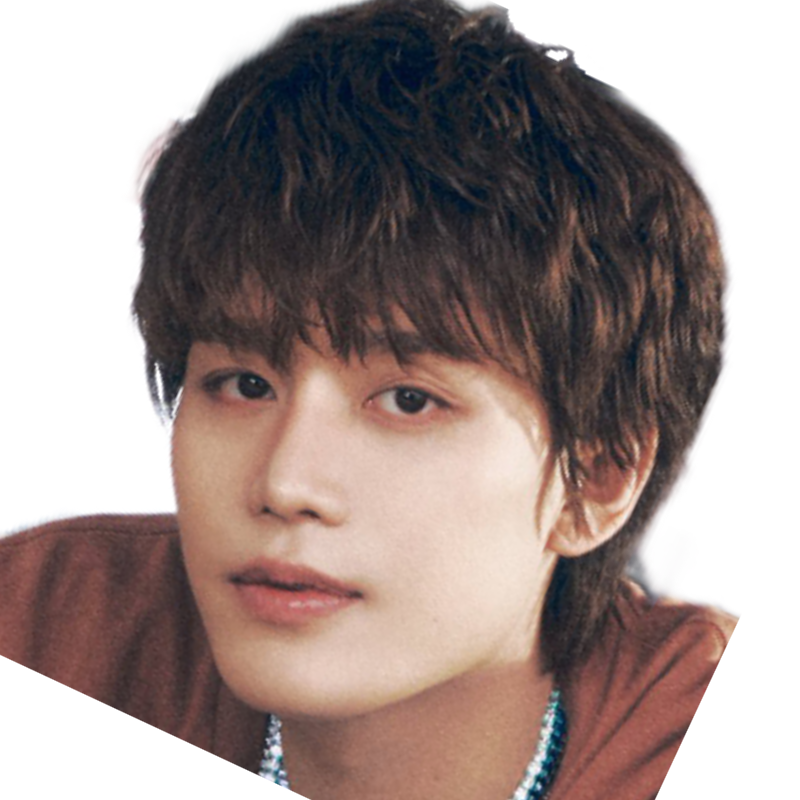
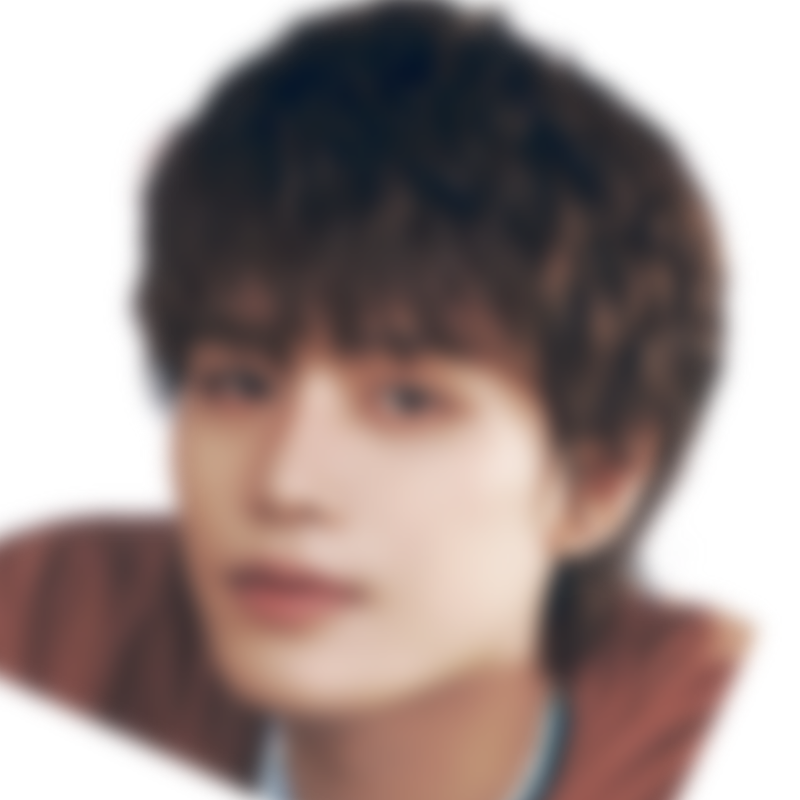
Update 오렌지색 물감 (Orange Seoul) photos

diff --git a/js/ranking.js b/js/ranking.js
@@ -4,7 +4,7 @@
 /* ========================================= */
 
 /* Bump when the avatar images change, to bust the browser/Pages cache. */
-const PHOTO_VER = 114;
+const PHOTO_VER = 115;
 window.PHOTO_VER = PHOTO_VER;
 
 const Ranking = {
